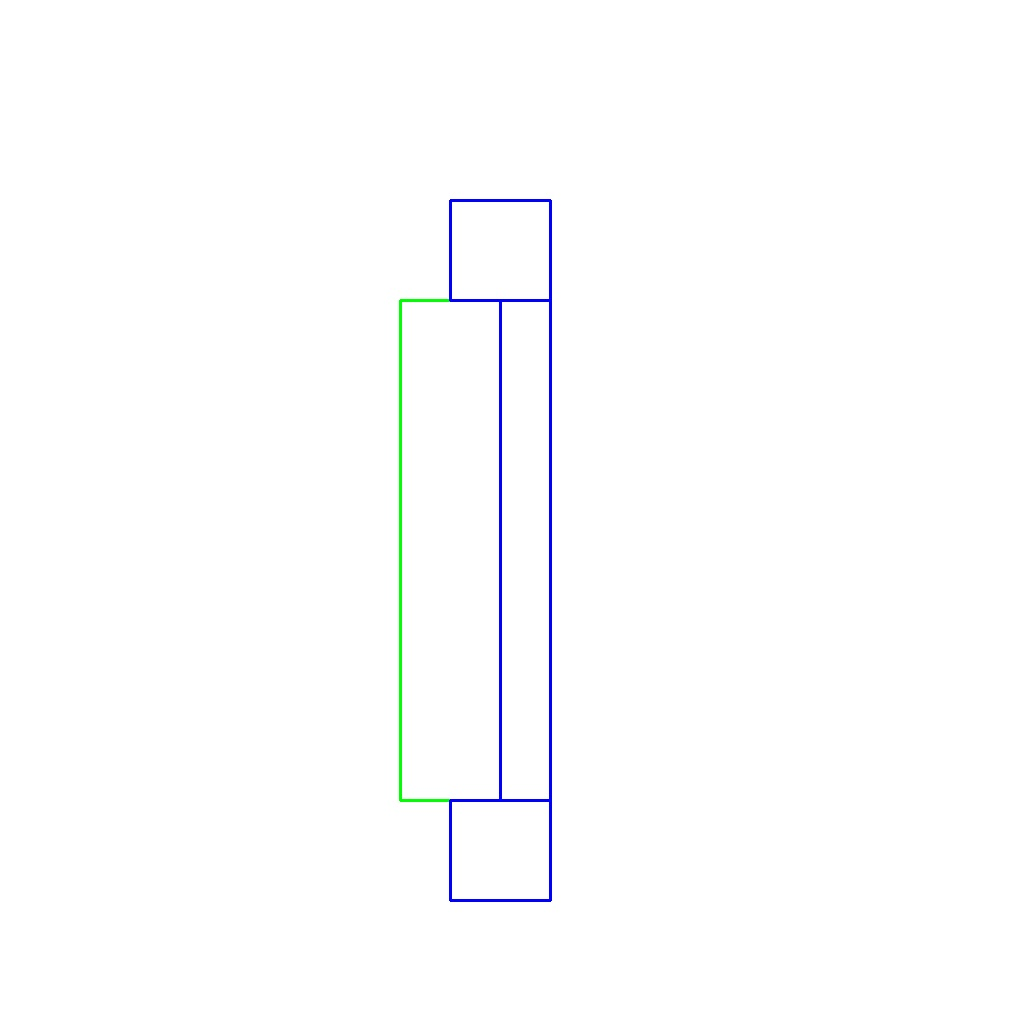
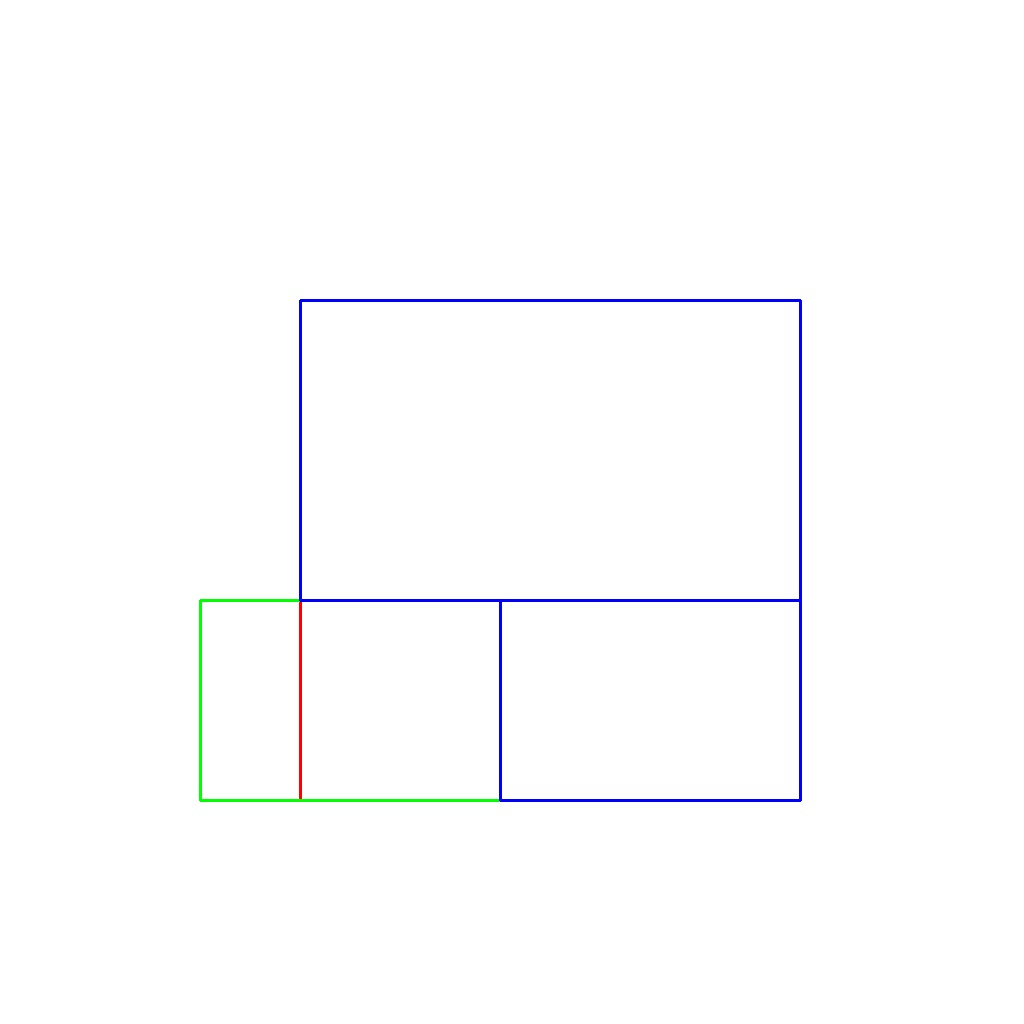
add images sample more

diff --git a/tests/script_test.py b/tests/script_test.py
@@ -2,6 +2,13 @@ import cv2
 from ignoring_zone_process_technique.process_zones import process_rect_list_with_ignore_zone_list
 
 
+def draw_rects(blank_image, ignoring_zones_list, result, sample_rect):
+    blank_image = cv2.rectangle(blank_image,(sample_rect[0], sample_rect[1]),(sample_rect[2], sample_rect[3]),(0,0,255),2)
+    for zone in ignoring_zones_list:
+        blank_image =  cv2.rectangle(blank_image,(zone[0], zone[1]),(zone[2], zone[3]),(0,255,0),2)
+    for rect in result:
+        blank_image = cv2.rectangle(blank_image,(rect[0], rect[1]),(rect[2], rect[3]),(255,0,0),2)
+    return  blank_image
 
 
 def test_process_zone(sample_rect, blank_image):
@@ -10,11 +17,71 @@ def test_process_zone(sample_rect, blank_image):
         # [400,400,900,900]
     ]
     result = process_rect_list_with_ignore_zone_list([sample_rect], ignoring_zones_list)
-    for zone in ignoring_zones_list:
-        blank_image =  cv2.rectangle(blank_image,(zone[0], zone[1]),(zone[2], zone[3]),(0,255,0),2)
-    for rect in result:
-        blank_image = cv2.rectangle(blank_image,(rect[0], rect[1]),(rect[2], rect[3]),(255,0,0),2)
+    blank_image = draw_rects(blank_image, ignoring_zones_list, result, sample_rect)
     cv2.imwrite("result.jpg",blank_image)
+
+
+def test_process_zone_top_left(sample_rect, blank_image):
+    ignoring_zones_list = [
+        [0, 0, 600, 600],
+    ]
+    result = process_rect_list_with_ignore_zone_list([sample_rect], ignoring_zones_list)
+    blank_image = draw_rects(blank_image, ignoring_zones_list, result, sample_rect)
+    cv2.imwrite("result_top_left.jpg",blank_image)
+
+
+def test_process_zone_top_right(sample_rect, blank_image):
+    ignoring_zones_list = [
+        [600,0 , 900, 600],
+    ]
+    result = process_rect_list_with_ignore_zone_list([sample_rect], ignoring_zones_list)
+    blank_image = draw_rects(blank_image, ignoring_zones_list, result, sample_rect)
+    cv2.imwrite("result_top_right.jpg",blank_image)
+
+
+def test_two_corner_rect_top(sample_rect_vertical, blank_image):
+    ignoring_zones_list = [
+        [0,100 , 600, 300],
+    ]
+    result = process_rect_list_with_ignore_zone_list([sample_rect_vertical], ignoring_zones_list)
+    blank_image = draw_rects(blank_image, ignoring_zones_list, result, sample_rect_vertical)
+    cv2.imwrite("result_two_corners_rect_top.jpg",blank_image)
+
+
+def test_two_corner_rect_bottom(sample_rect_vertical, blank_image):
+    ignoring_zones_list = [
+        [0,700 , 600, 1000],
+    ]
+    result = process_rect_list_with_ignore_zone_list([sample_rect_vertical], ignoring_zones_list)
+    blank_image = draw_rects(blank_image, ignoring_zones_list, result, sample_rect_vertical)
+    cv2.imwrite("result_two_corners_rect_bottom.jpg",blank_image)
+
+
+def test_two_corner_rect_left(sample_rect_horizontal, blank_image):
+    ignoring_zones_list = [
+        [0,100, 300, 900 ]
+    ]
+    result = process_rect_list_with_ignore_zone_list([sample_rect_horizontal], ignoring_zones_list)
+    blank_image = draw_rects(blank_image, ignoring_zones_list, result, sample_rect_horizontal)
+    cv2.imwrite("result_two_corners_rect_left.jpg",blank_image)
+
+
+def test_two_corner_rect_right(sample_rect_horizontal, blank_image):
+    ignoring_zones_list = [
+        [600,100, 900, 900 ]
+    ]
+    result = process_rect_list_with_ignore_zone_list([sample_rect_horizontal], ignoring_zones_list)
+    blank_image = draw_rects(blank_image, ignoring_zones_list, result, sample_rect_horizontal)
+    cv2.imwrite("result_two_corners_rect_right.jpg",blank_image)
+
+
+def test_process_zone_bottom_right(sample_rect, blank_image):
+    ignoring_zones_list = [
+        [600,600, 900,900]
+    ]
+    result = process_rect_list_with_ignore_zone_list([sample_rect], ignoring_zones_list)
+    blank_image = draw_rects(blank_image, ignoring_zones_list, result, sample_rect)
+    cv2.imwrite("result_bottom_right.jpg",blank_image)
 
 def test_process_zone_cross(sample_rect_vertical, blank_image):
     ignoring_zones_list = [
@@ -22,8 +89,22 @@ def test_process_zone_cross(sample_rect_vertical, blank_image):
         [400,300, 500,800]
     ]
     result = process_rect_list_with_ignore_zone_list([sample_rect_vertical], ignoring_zones_list)
-    for zone in ignoring_zones_list:
-        blank_image =  cv2.rectangle(blank_image,(zone[0], zone[1]),(zone[2], zone[3]),(0,255,0),2)
-    for rect in result:
-        blank_image = cv2.rectangle(blank_image,(rect[0], rect[1]),(rect[2], rect[3]),(255,0,0),2)
+    blank_image = draw_rects(blank_image, ignoring_zones_list, result, sample_rect_vertical)
     cv2.imwrite("result_zone_cross.jpg",blank_image)
+
+def test_process_ignoring_zone_in_rect(sample_rect,blank_image):
+    ignoring_zones_list = [
+        [450, 450, 550, 550]
+    ]
+    result = process_rect_list_with_ignore_zone_list([sample_rect], ignoring_zones_list)
+    blank_image = draw_rects(blank_image, ignoring_zones_list, result, sample_rect)
+    cv2.imwrite("result_zone_in_rect.jpg", blank_image)
+
+
+def test_process_2_corner_ignoring_zone_in_rect(sample_rect, blank_image):
+    ignoring_zones_list = [
+        [200,600, 500,800]
+    ]
+    result = process_rect_list_with_ignore_zone_list([sample_rect], ignoring_zones_list)
+    blank_image = draw_rects(blank_image, ignoring_zones_list, result, sample_rect)
+    cv2.imwrite("result_2_zone_in_rect.jpg", blank_image)

diff --git a/ignoring_zone_process_technique/case_handler.py b/ignoring_zone_process_technique/case_handler.py
@@ -28,7 +28,7 @@ def __one_corner_top_right_handler(rect_corners, intersect_rect):
         "bottom_left" : Points(rect_corners["top_left"].x, intersect_rect["bottom_left"].y)
     }
     second_rectangle_corners = {
-        "top_left": first_rectangle_corners["bottom_right"],
+        "top_left": first_rectangle_corners["bottom_left"],
         "top_right": intersect_rect["bottom_right"],
         "bottom_right": rect_corners["bottom_right"],
         "bottom_left": rect_corners["bottom_left"]
@@ -44,7 +44,7 @@ def __one_corner_bottom_right_handler(rect_corners, intersect_rect):
         "bottom_left": Points(rect_corners["top_left"].x, intersect_rect["top_left"].y)
     }
     second_rectangle_corners = {
-        "top_left": first_rectangle_corners["bottom_right"],
+        "top_left": first_rectangle_corners["bottom_left"],
         "top_right": intersect_rect["top_left"],
         "bottom_right": intersect_rect["bottom_left"],
         "bottom_left": rect_corners["bottom_left"]
@@ -77,11 +77,11 @@ def one_corner_in_ignoring_zone_handler(rect_corners, ignoring_zone_corners):
     if corner_type == "top_left":
         return __one_corner_top_left_handler(rect_corners, intersect_rect)
     elif corner_type == "bottom_right":
-        return __one_corner_top_right_handler(rect_corners, intersect_rect)
+        return __one_corner_bottom_right_handler(rect_corners, intersect_rect)
     elif corner_type == "bottom_left":
         return __one_corner_bottom_left_handler(rect_corners, intersect_rect)
     elif corner_type == "top_right":
-        return __one_corner_bottom_right_handler(rect_corners, intersect_rect)
+        return __one_corner_top_right_handler(rect_corners, intersect_rect)
 
 
 def __two_corner_top_handler(rect_corners, intersect_rect):

diff --git a/ignoring_zone_process_technique/rect_utils.py b/ignoring_zone_process_technique/rect_utils.py
@@ -32,8 +32,8 @@ def check_intersect_by_corners(corners1, corners2):
 def get_point_rect_in_another(corners1, corners2):
     point_list = []
     for key, value in corners1.items() :
-        if corners2["top_left"].x < value.x < corners2["bottom_right"].x and \
-                corners2["top_left"].y < value.y < corners2["bottom_right"].y:
+        if corners2["top_left"].x <= value.x <= corners2["bottom_right"].x and \
+                corners2["top_left"].y <= value.y <= corners2["bottom_right"].y:
             point_list.append(key)
     return point_list
 

diff --git a/ignoring_zone_process_technique/process_zones.py b/ignoring_zone_process_technique/process_zones.py
@@ -7,6 +7,7 @@ def process_zones(rect, ignoring_zone):
     corners_rect = rect_utils.extract_corners(rect)
     corners_ignoring_zone = rect_utils.extract_corners(ignoring_zone)
     case = check_case(corners_rect,corners_ignoring_zone)
+    print(case)
     if case == Cases.CASE_ONE_CORNER_IN_IGNORING_ZONE:
         return case_handler.one_corner_in_ignoring_zone_handler(corners_rect, corners_ignoring_zone)
     elif case == Cases.CASE_TWO_CORNERS_IN_IGNORING_ZONE:

diff --git a/ignoring_zone_process_technique/cases.py b/ignoring_zone_process_technique/cases.py
@@ -23,5 +23,5 @@ def check_case(rect_corners, ignore_zone_corners):
         return Cases.CASE_TWO_IGNORE_CORNERS_IN_RECT
     elif len(point_in_rect) == 4:
         return Cases.CASE_FOUR_IGNORE_CORNERS_IN_RECT
-    elif len(point_in_rect) == 0 and len(point_in_ignore)==0:
+    elif len(point_in_rect) == 0 and len(point_in_ignore) == 0:
         return Cases.CASE_CROSS_ZONES

diff --git a/tests/conftest.py b/tests/conftest.py
@@ -9,7 +9,15 @@ def sample_rect():
 def sample_rect_vertical():
     return [450,200, 550,900 ]
 
+
+@pytest.fixture
+def sample_rect_horizontal():
+    return [200, 450, 900, 550]
+
+
 @pytest.fixture()
 def blank_image():
     blank_image = 255 * np.ones(shape=[1024, 1024, 3], dtype=np.uint8)
     return blank_image
+
+
